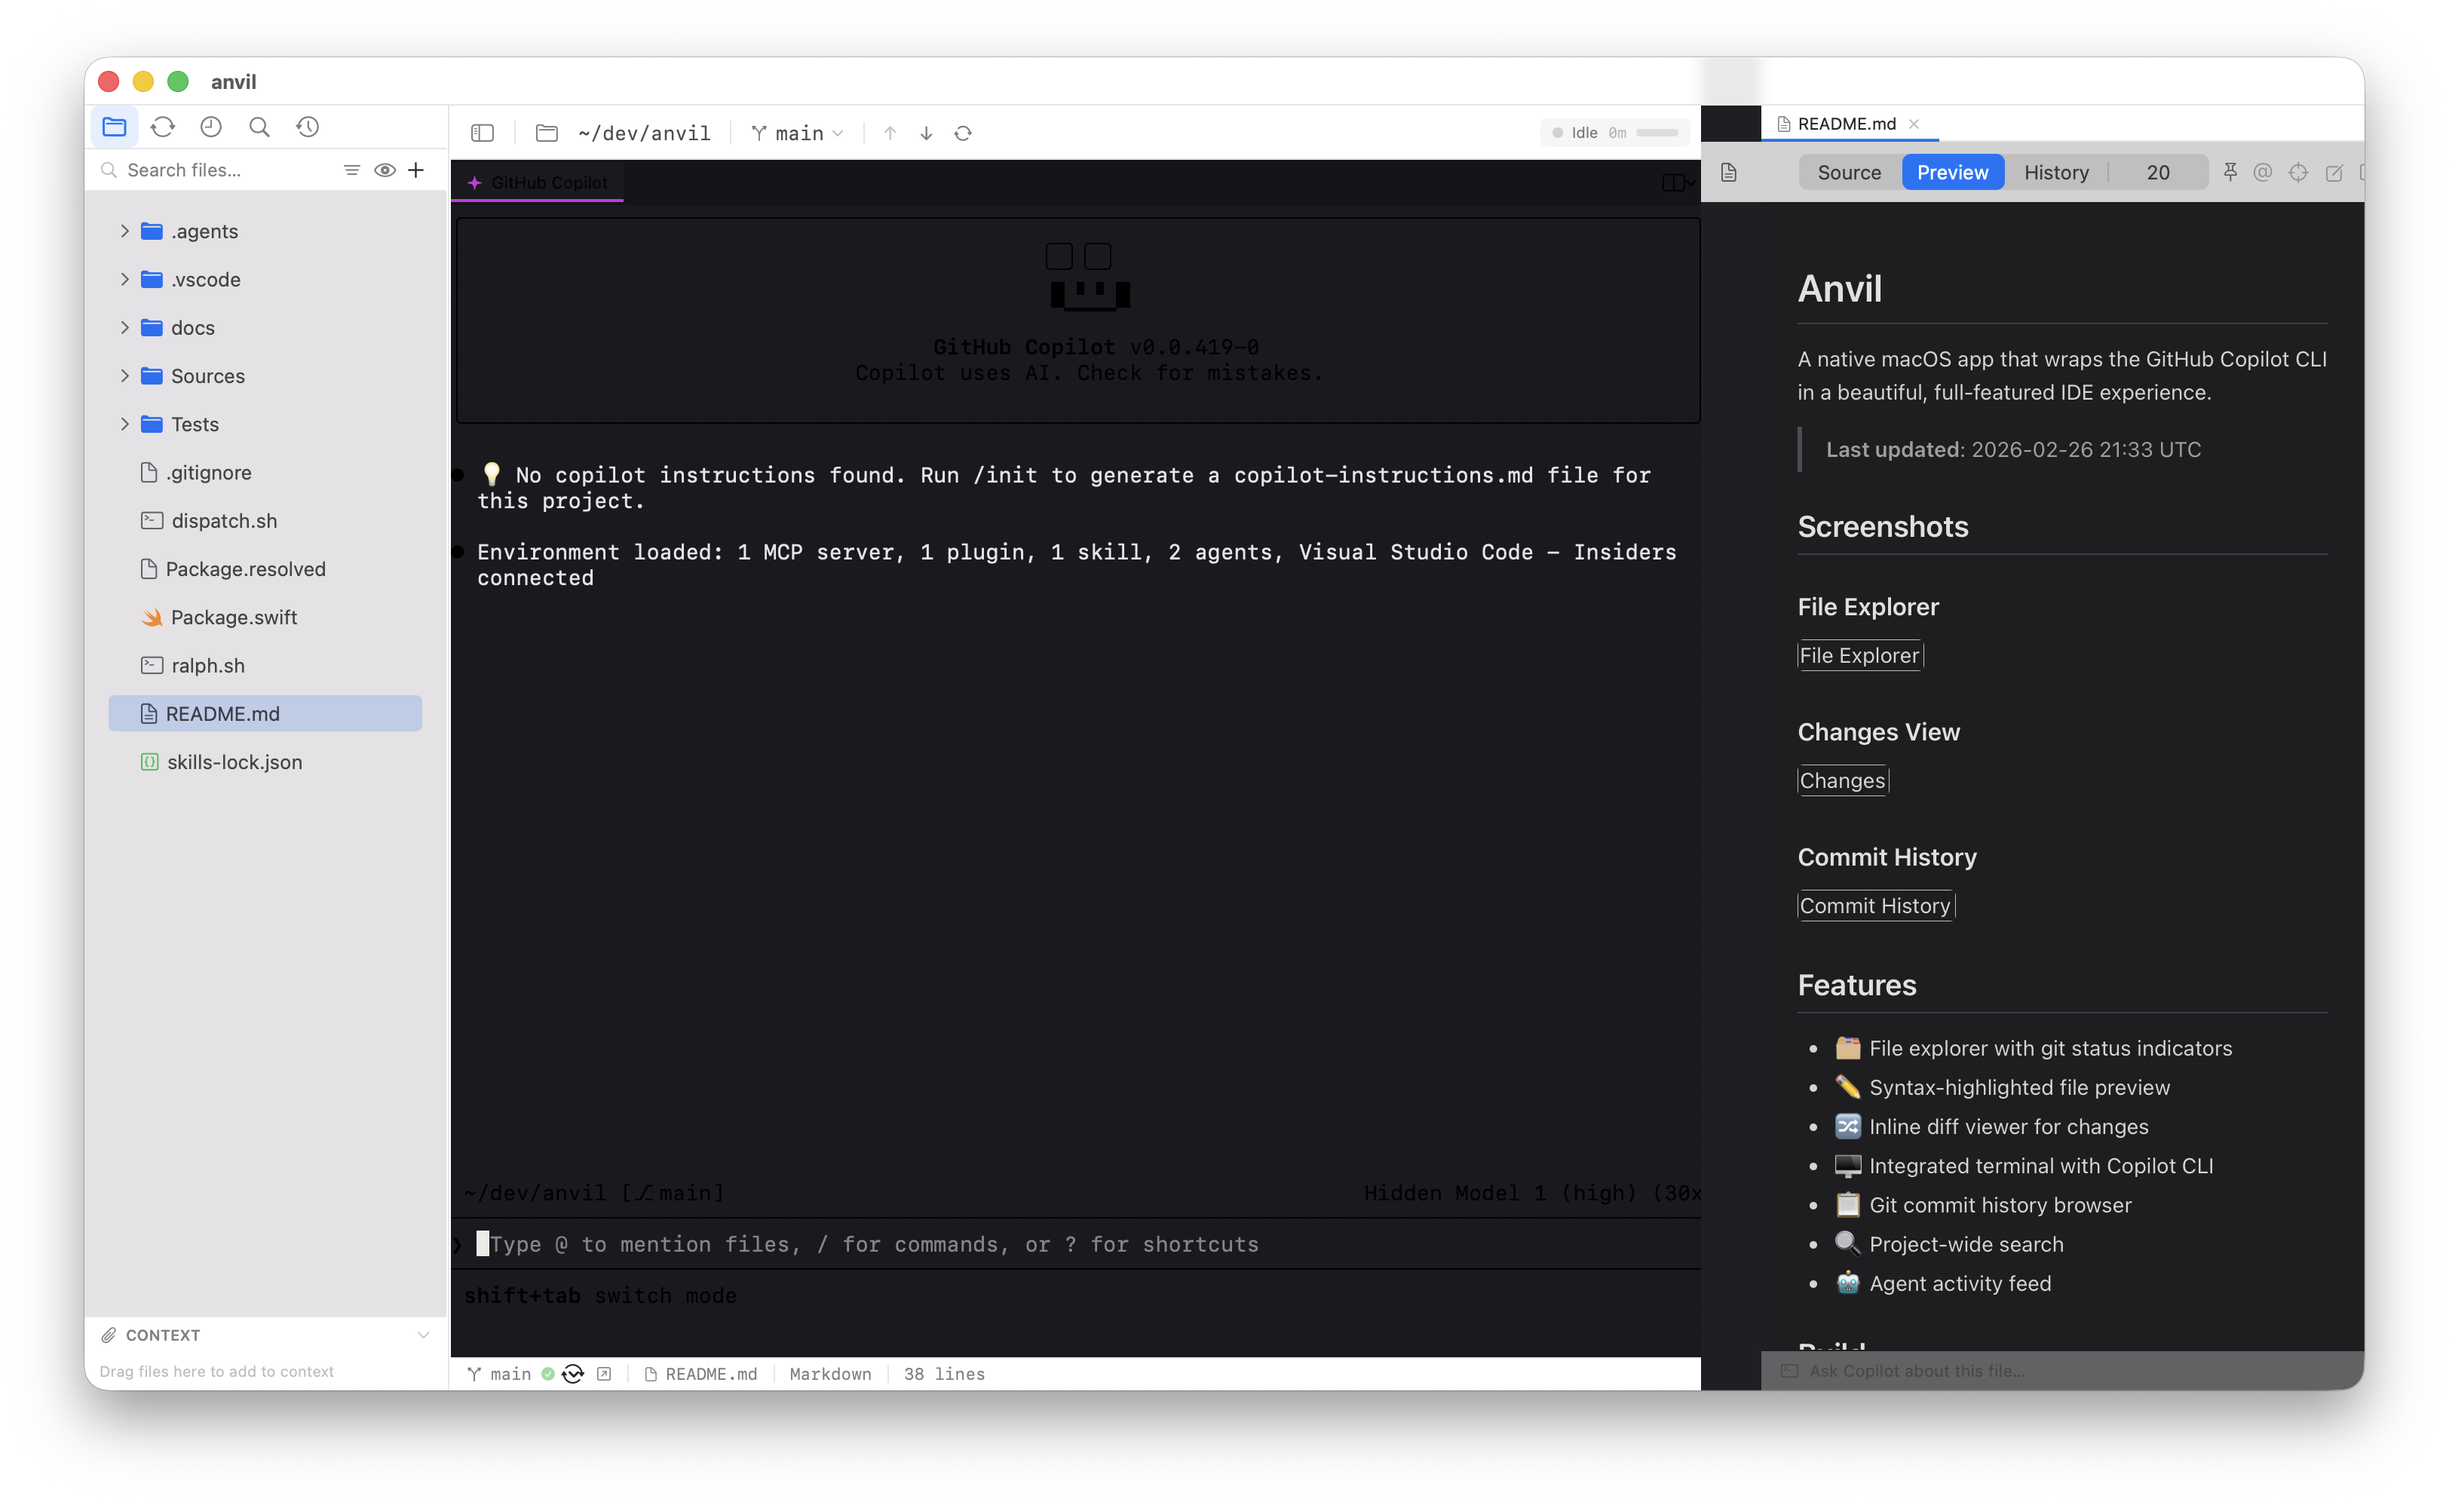
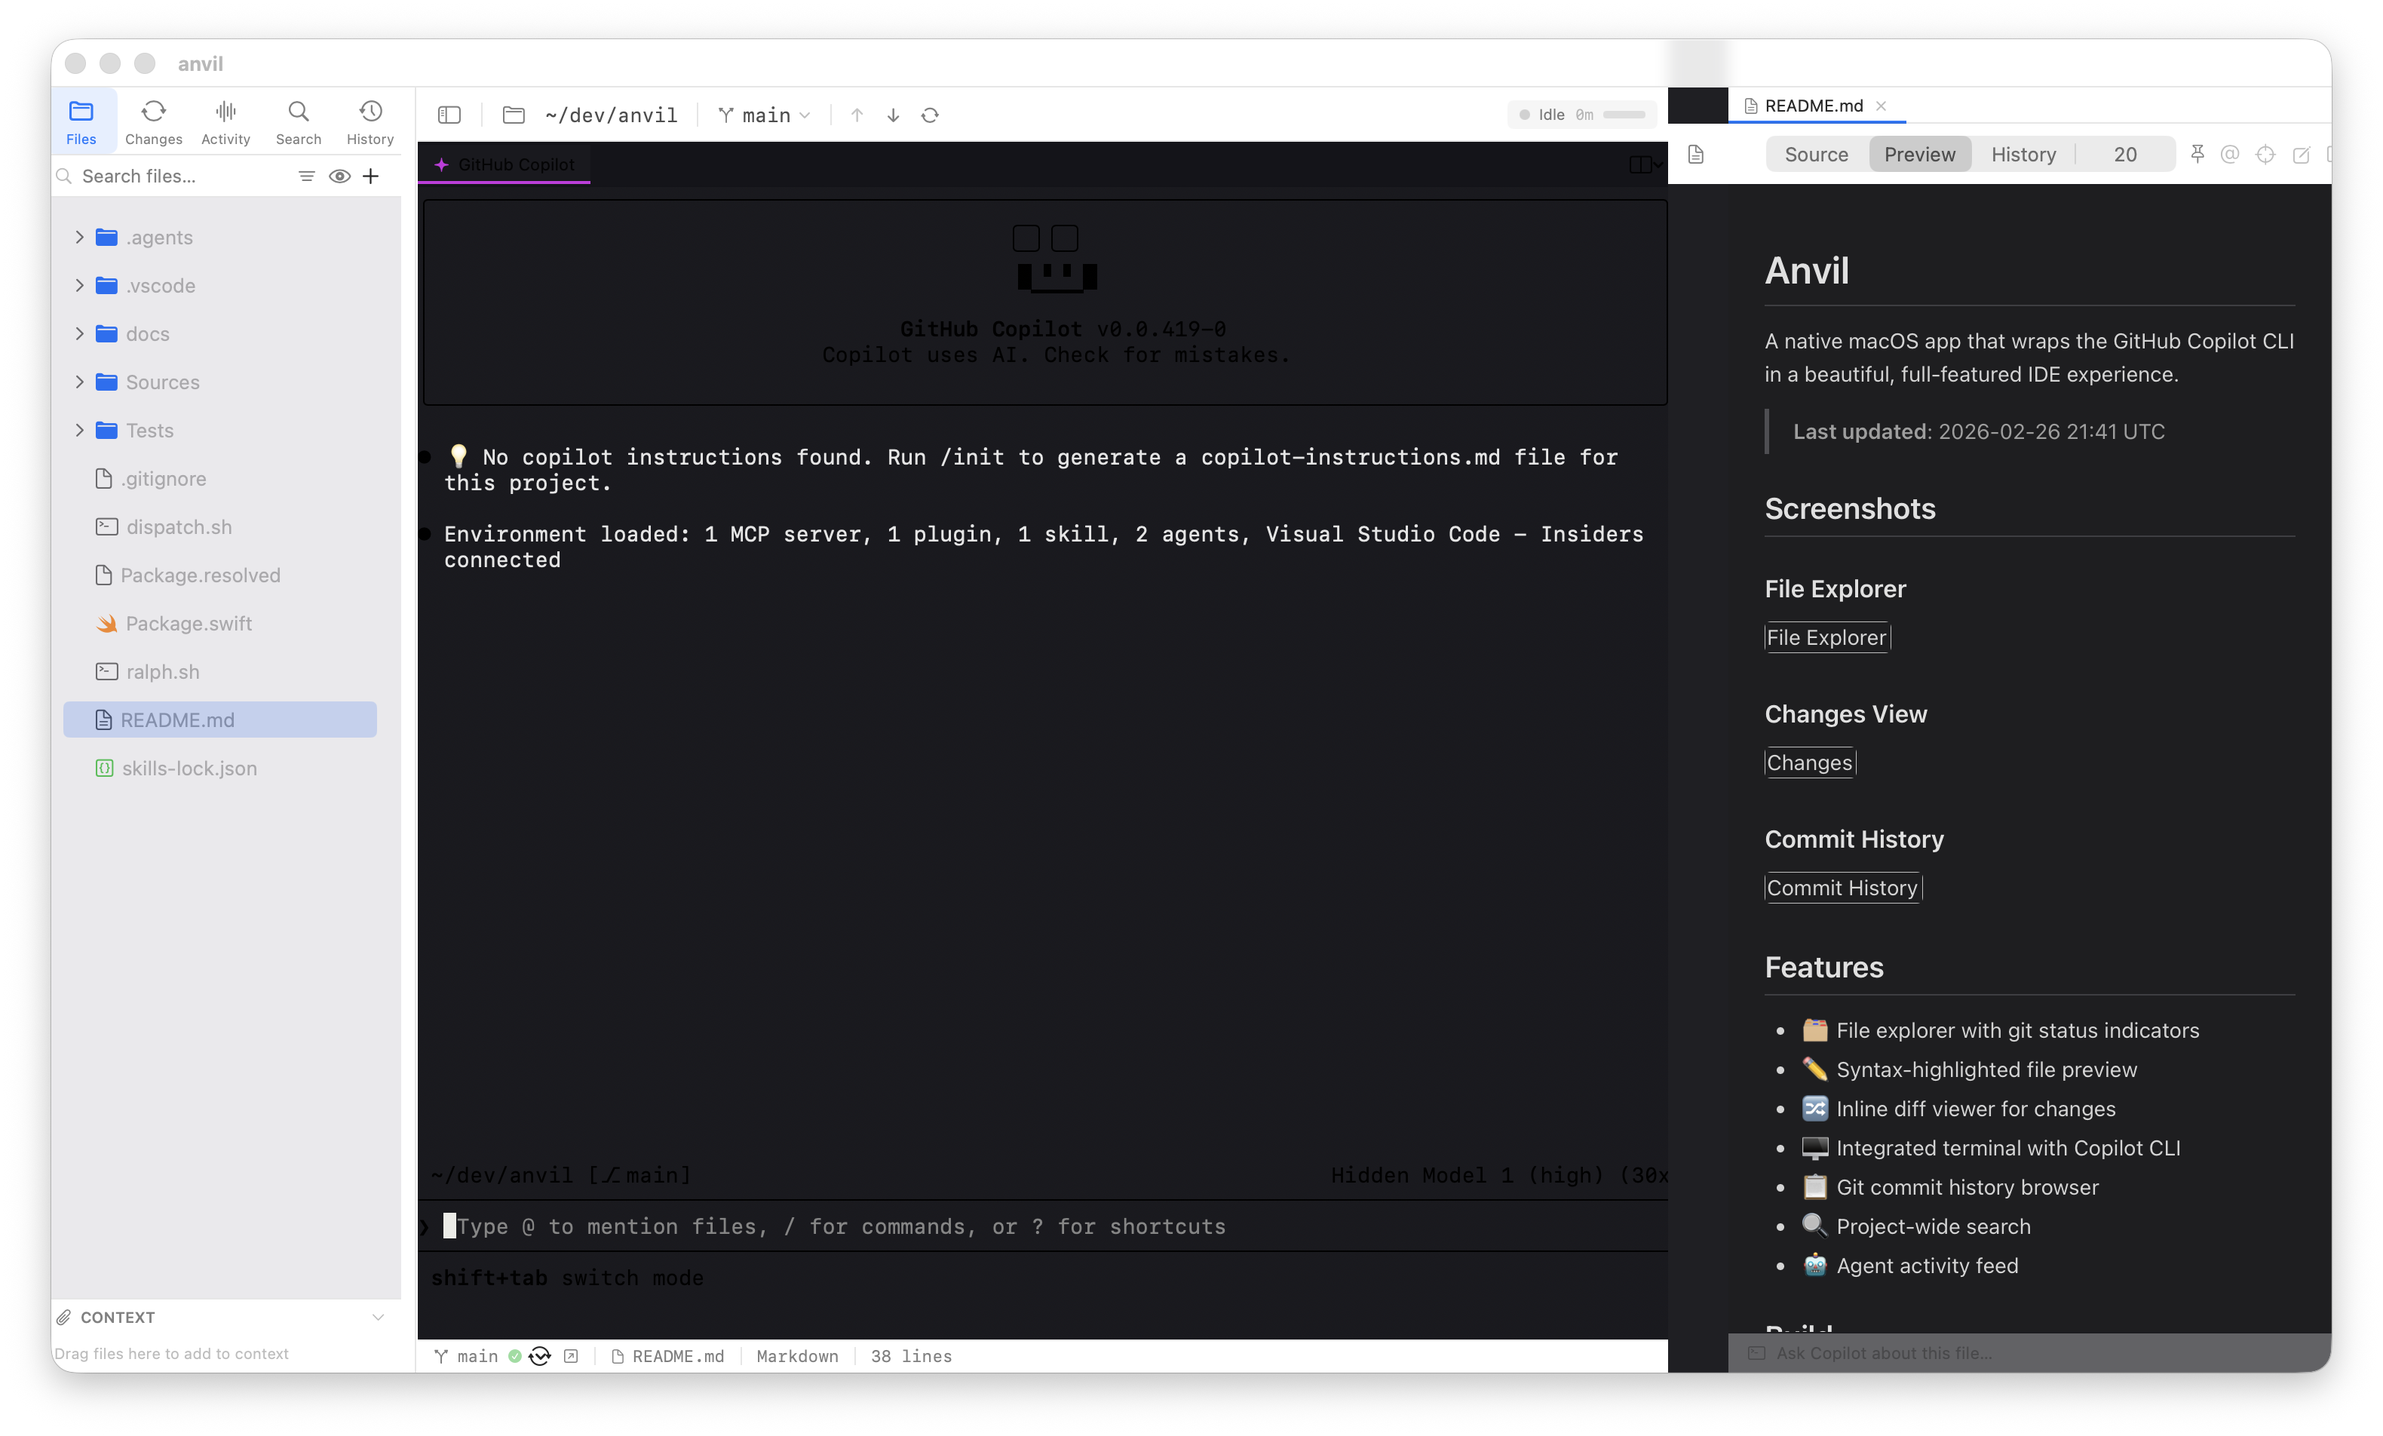
docs: update app screenshots and README (2026-02-26 21:48 UTC)

diff --git a/README.md b/README.md
@@ -2,7 +2,7 @@
 
 A native macOS app that wraps the GitHub Copilot CLI in a beautiful, full-featured IDE experience.
 
-> **Last updated**: 2026-02-26 21:41 UTC
+> **Last updated**: 2026-02-26 21:48 UTC
 
 ## Screenshots
 
